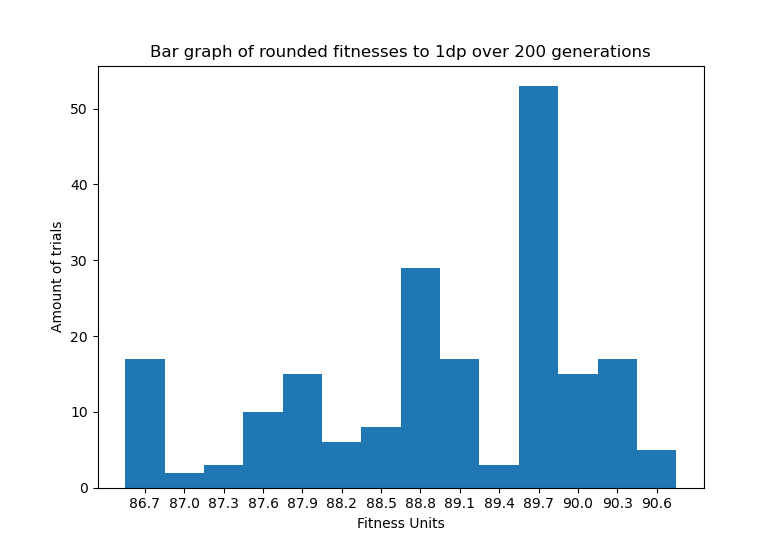
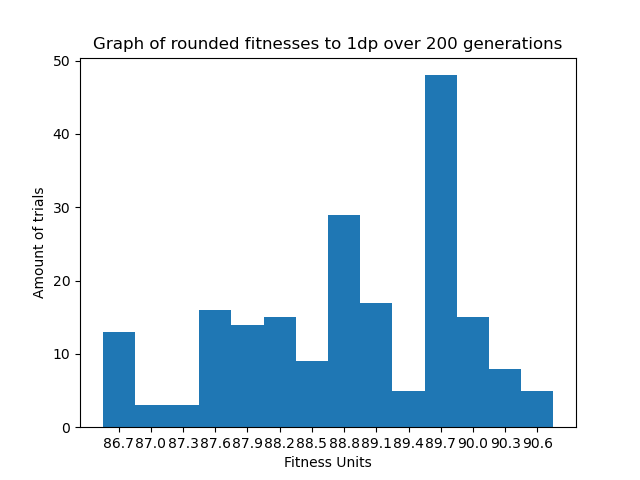
Improved files

diff --git a/Simulation/ResultsFile.py b/Simulation/ResultsFile.py
@@ -4,21 +4,23 @@ import matplotlib.pyplot as plt
 a=None
 b=None
 c=None
+d=None
 path="D:/Documents/Computer Science/Year 3/Dissertation/"
 with open(path+'microbial.npy', 'rb') as f:
     a = np.load(f)
 with open(path+'group.npy', 'rb') as f:
     b = np.load(f)
-    
 with open(path+'elite.npy', 'rb') as f:
     c = np.load(f)
     c=c[0:500]
-    
+with open('microbialConv.npy', 'rb') as f:
+    d = np.load(f)
 print(a.shape,b.shape,c.shape)
 
 plt.plot([i for i in range(len(a))],a,c="b",label="Microbial") #show fintesses over generations
 plt.plot([i for i in range(len(b))],b,c="r",label="Group") #show fintesses over generations
 plt.plot([i for i in range(len(c))],c,c="g",label="Elitist") #show fintesses over generations
+plt.plot([i for i in range(len(d))],d,c="y",label="Convolutional") #show fintesses over generations
 
 plt.title("Results of population fitness over "+str(len(a))+" generations")
 plt.ylabel("Fitness Units")

diff --git a/Simulation/Microbial Conv.py b/Simulation/Microbial Conv.py
@@ -210,9 +210,11 @@ def microbial(genes,world,position):
     global BEST
     #microbial algorithm trial
     ind_1 = rnd.randint(0,len(genes)-1)
-    ind_2 = rnd.randint(0,len(genes)-1)
-    while ind_1==ind_2: #make value unique
-        ind_2 = rnd.randint(0,len(genes)-1)
+    ind_2=0
+    if ind_1>0: ind_2 = ind_1-1
+    else: ind_2= ind_1+1
+    #while ind_1==ind_2: #make value unique
+    #    ind_2 = rnd.randint(0,len(genes)-1)
     #get two random positions
     gene1=(genes[ind_1])
     gene2=(genes[ind_2])
@@ -314,7 +316,7 @@ if bestGene!=[]:
         plt.show()
 """
 
-np.save("microbial.npy", fitnesses)
+np.save("microbialConv.npy", fitnesses)
 """
 plt.plot(BEST[0],BEST[1]) #show best path
 plt.title("Results of best fitness at "+str(BESTFIT)+"% after generations")

diff --git a/Simulation/Explicit.py b/Simulation/Explicit.py
@@ -236,7 +236,8 @@ for gen in range(Generations):
         i+=1
         
     fit=fitness(broke,energy,getDist(current,cords))
-    fitnesses.append(fit)
+    fitnesses.append(max(fit,max(fitnesses+[0])))
+    #fitnesses.append(fit)
     """
     plt.plot(pathx,pathy) #show best path
     plt.title("Gene "+str(fit)+"% after generations")
@@ -262,7 +263,7 @@ plt.xticks(range(len(d)), list(d.keys()))
 # # for python 2.x:
 # plt.bar(range(len(D)), D.values(), align='center')  # python 2.x
 # plt.xticks(range(len(D)), D.keys())  # in python 2.x
-plt.title("Bar graph of rounded fitnesses to 1dp over "+str(Generations)+" generations")
+plt.title("Graph of rounded fitnesses to 1dp over "+str(Generations)+" generations")
 
 plt.ylabel("Amount of trials")
 plt.xlabel("Fitness Units")

diff --git a/Simulation/Microbial.py b/Simulation/Microbial.py
@@ -210,9 +210,11 @@ def microbial(genes,world,position):
     global BEST
     #microbial algorithm trial
     ind_1 = rnd.randint(0,len(genes)-1)
-    ind_2 = rnd.randint(0,len(genes)-1)
-    while ind_1==ind_2: #make value unique
-        ind_2 = rnd.randint(0,len(genes)-1)
+    ind_2=0
+    if ind_1>0: ind_2 = ind_1-1
+    else: ind_2= ind_1+1
+    #while ind_1==ind_2: #make value unique
+    #    ind_2 = rnd.randint(0,len(genes)-1)
     #get two random positions
     gene1=(genes[ind_1])
     gene2=(genes[ind_2])
